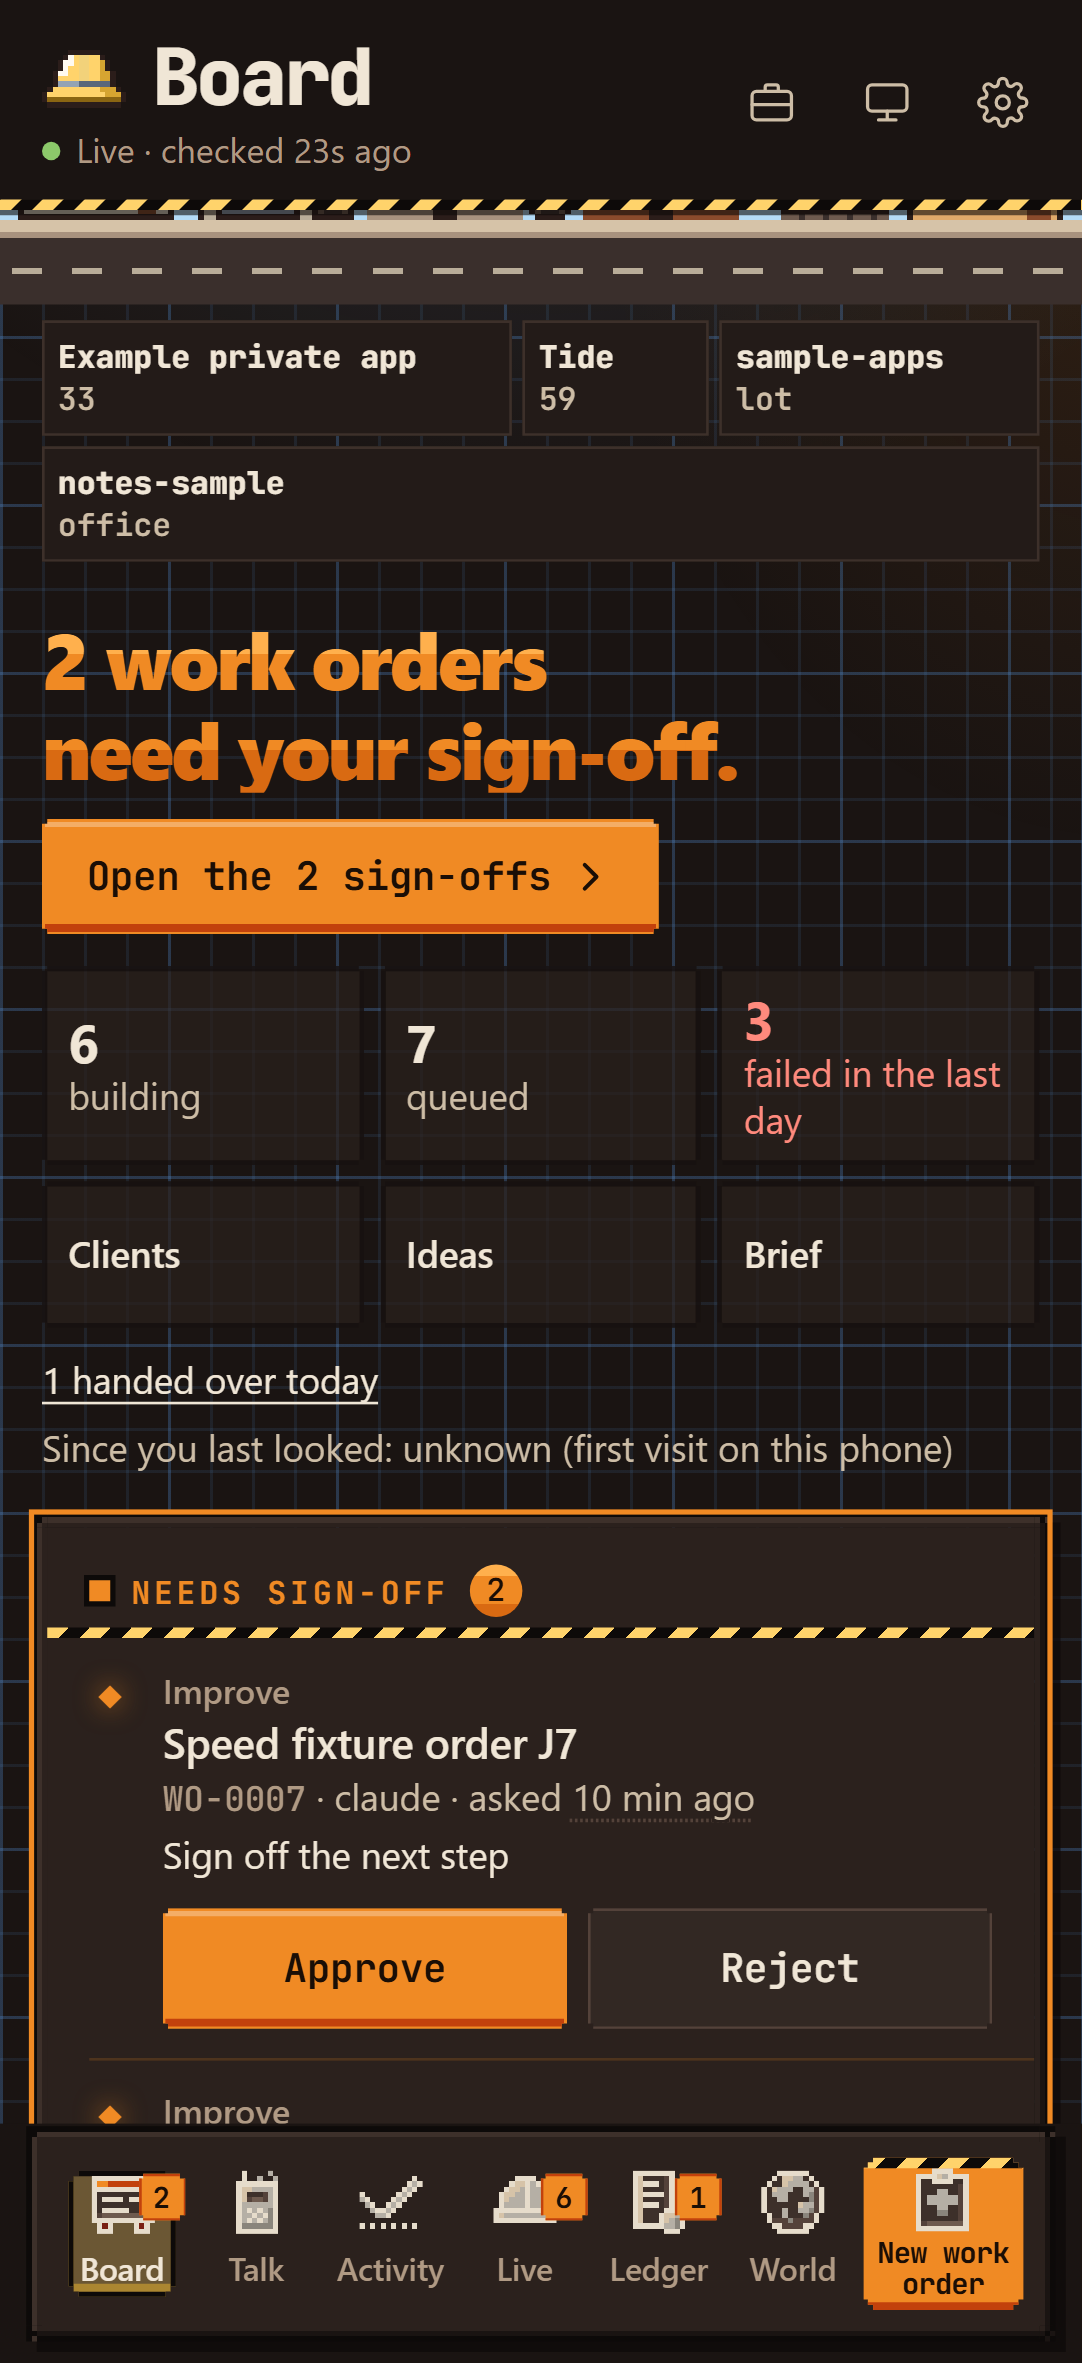
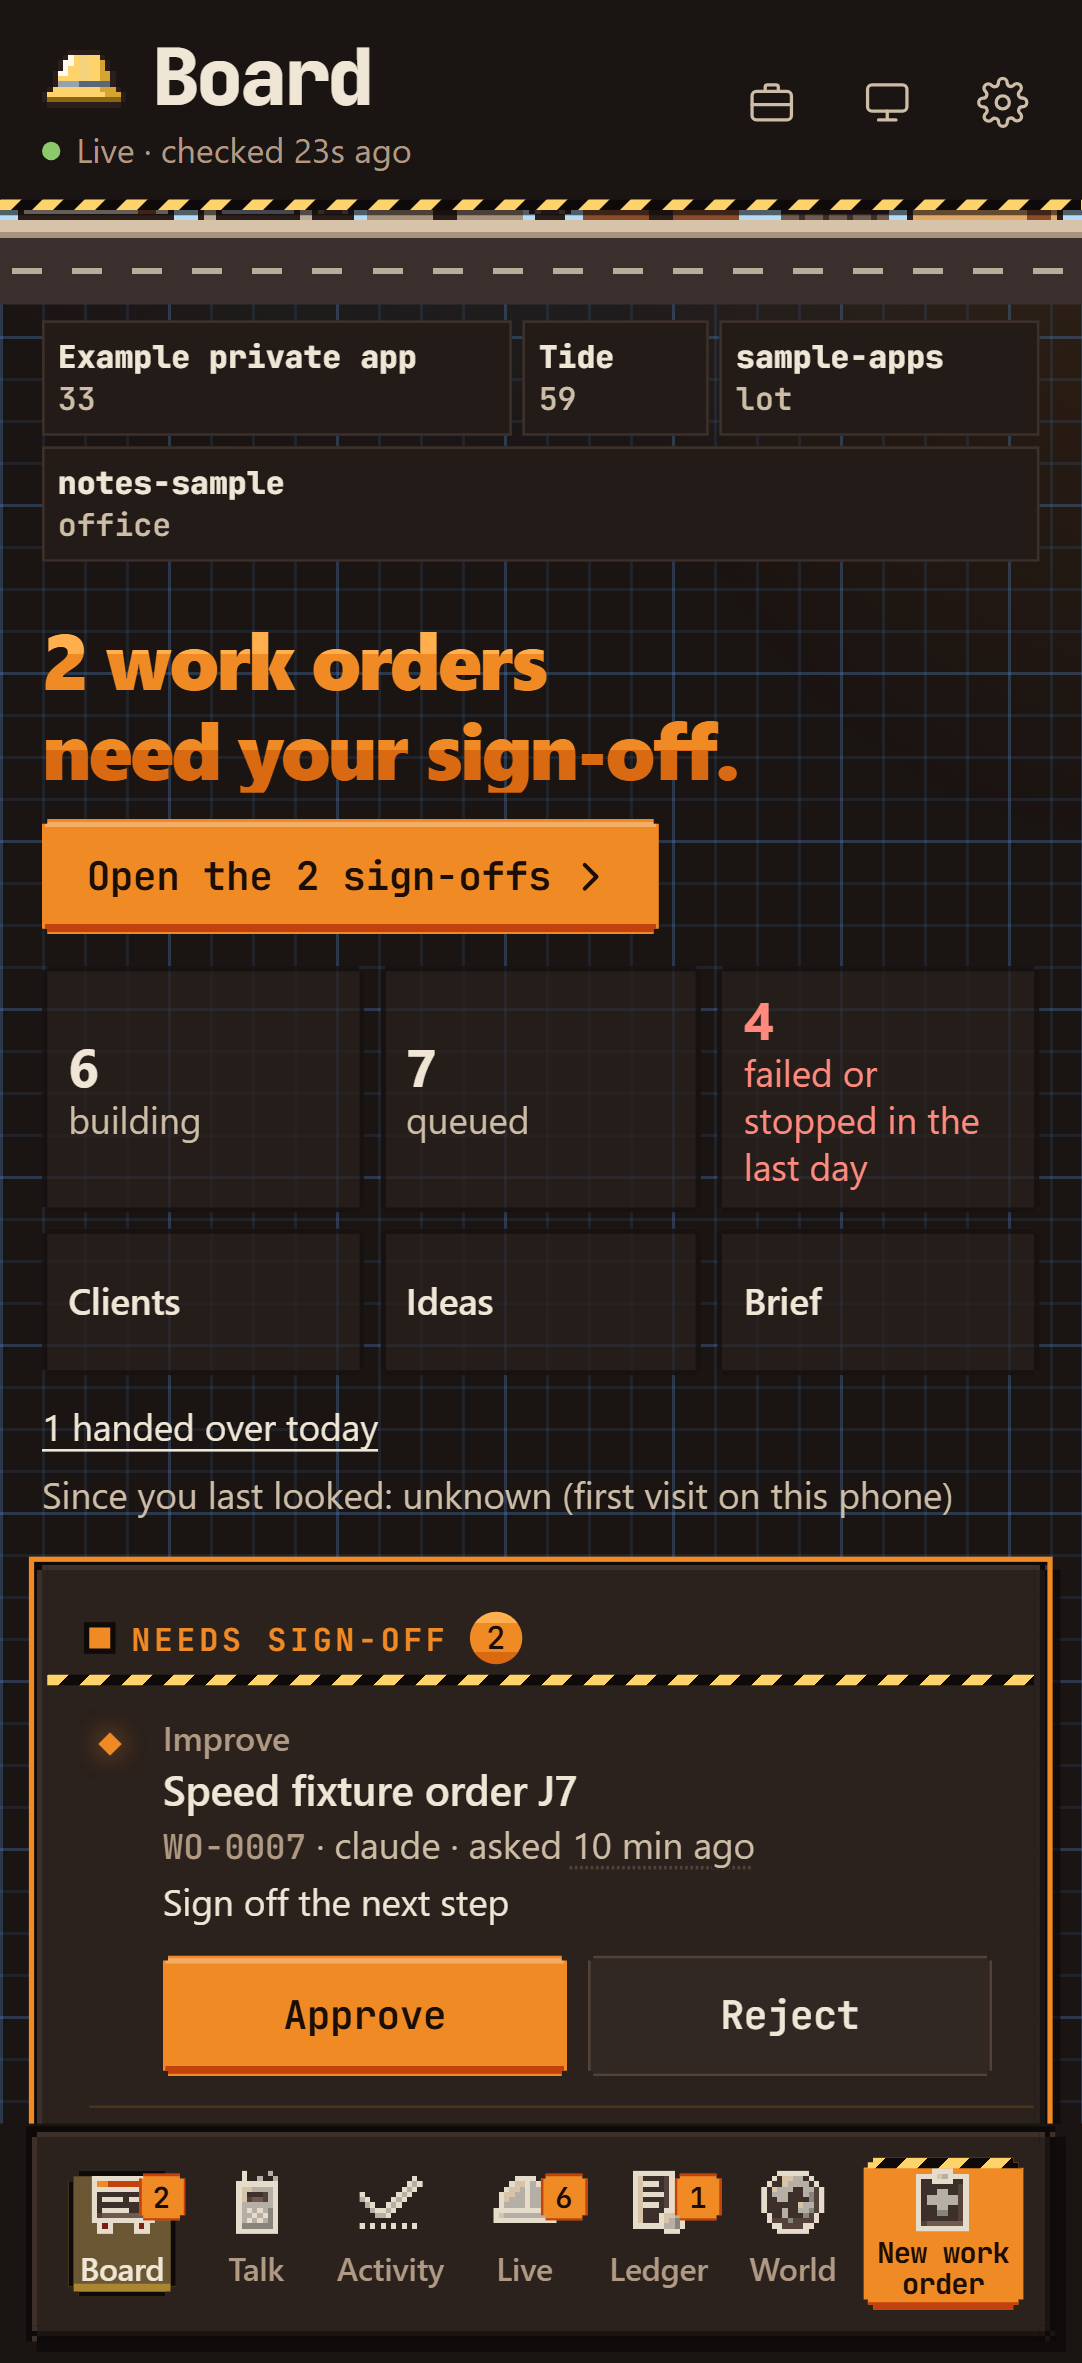
Review fixes: Retry label room, failed-or-stopped wording, notice sheet gutter
Action-bar buttons with a why line get vertical room (nothing clipped by the bottom shadow); the home red number says 'failed or stopped in the last day' and its test covers a killed order; the notice sheet body uses the 16 px gutter; checks added in test-readable.mjs. PassApp 1371/0, Standards 20/0, Work 118/0.

diff --git a/pass-app/public/app.css b/pass-app/public/app.css
@@ -210,6 +210,9 @@ dialog::backdrop{background:rgba(17,17,16,.45)}
 .action-bar{flex:none;display:flex;gap:8px;padding:12px var(--gutter) calc(12px + var(--bottom));border-top:1px solid var(--line);background:var(--bg)}
 .action-bar:empty{display:none}
 .action-bar .btn{flex:1;min-height:52px}
+/* task 30 (D-3 nothing clipped): a button that carries its reason (.btn-why, app.js retryLabel) is taller than 52 px; give its lines room
+   above the 3 px bottom edge of a pixel-look primary button, so the last line's descenders are never under it */
+.action-bar .btn:has(.btn-why){flex-direction:column;gap:2px;height:auto;padding:8px 12px 11px}
 
 /* job detail */
 .ticket{padding:4px var(--gutter) 16px}
@@ -1367,6 +1370,9 @@ html.lobe-px .lobe-box{border:12px solid transparent;border-image:var(--lobe-dlg
 html.px .notice-chip{clip-path:var(--px-notch-s)}
 .notice-text{margin:4px 0 12px;font-size:16px;line-height:24px;color:var(--ink);overflow-wrap:anywhere}
 .notice-act{display:flex;flex-wrap:wrap;gap:8px}.notice-act .btn{min-height:44px;text-decoration:none;display:inline-flex;align-items:center}
+/* task 30 (D-3): the notice sheets' words and buttons sit on the same 16 px gutter as every other sheet; their .note already lives inside it */
+#notice-body,#notices-body{padding-left:var(--gutter);padding-right:var(--gutter)}
+#notice-body .note,#notices-body .empty-line{padding-left:0;padding-right:0}
 /* the City gets the space back: edge to edge (city.js scales the picture to the box), its words keep the gutter, every name whole
    (names wrap to a second row or line, never an ellipsis); D-3: Look A (crisp pixels as drawn) by day, lit at dusk and night (B's lighting) */
 .city{margin:2px 0 10px}

diff --git a/pass-app/public/app.js b/pass-app/public/app.js
@@ -359,7 +359,7 @@ function renderPass() {
   const sign = needs.length ? `<button class="btn primary signoff-btn" type="button" data-signoff="${needs.length === 1 ? esc(needs[0].id) : ''}">${needs.length === 1 ? 'Open the sign-off' : `Open the ${needs.length} sign-offs`}${icon('chev')}</button>` : '';
   const stat = (num, words, attrs, bad = false) => `<a href="#/pass" class="stat${bad ? ' bad' : ''}" ${attrs}><b>${num}</b> <span>${words}</span></a>`;
   const stats = [stat(cooking.length, low(L.running), 'data-jump="cooking"'), stat(rail.length, low(L.pending), 'data-jump="rail"'),
-    stat(hs.recent.length, `${low(L.failed)} in the last day`, 'data-jump="aside"', hs.recent.length > 0),
+    stat(hs.recent.length, `${asideWord} in the last day`, 'data-jump="aside"', hs.recent.length > 0),
     s.leads ? stat(Number(s.leads), s.leads > 1 ? 'leads' : 'lead', 'data-clients-open') : stat('', 'Clients', 'data-clients-open'),
     s.ideas ? stat(Number(s.ideas), s.ideas > 1 ? 'ideas' : 'idea', 'data-ideas-open') : stat('', 'Ideas', 'data-ideas-open'), stat('', 'Brief', 'data-brief-open')];
   const platedToday = plated.filter((j) => isToday(j.updated)).length;

diff --git a/pass-app/README.md b/pass-app/README.md
@@ -5,7 +5,7 @@ Names: `gemini-brain/projects/tide/naming/GLOSSARY.md`. Screen names, status wor
 
 | Where | What it does |
 |---|---|
-| Board | One list: Needs sign-off (approve / reject with the exact ask), Building (live clock; Inspection while the tests or check step runs), Queued, the bench (Failed or Stopped; retry), Handed over. Every row shows a human title from one helper (`public/titles.js` `titleOf`, D-11): the idea's short title, else the name's first heading or line in plain words, markdown stripped; an id alone reads as words by its Spec ("diagnose: J357" is "Why WO-0357 failed"), never a bare id. The page's bottom room is measured from the nav itself (`--nav-cover`), so the last row is never under it; a floor (`.bar-floor`) fills the screen's bottom edge from the nav's top down and the header is opaque, so nothing shows through beside, below or above them. **Home (task 30, D-11):** the headline has its one action under it (Open the sign-off: one order opens its sheet, more jump to Needs sign-off); then one grid of six equal cells (building, queued, failed in the last day, leads or Clients, ideas, Brief); then the plain-words line on its own line (handed over today, follow-ups due). The red number counts only orders failed or stopped in the last day (`public/plain.js` `homeStats`); older ones sit under Show cleared / older in the same section, one tap away. Times read in words (3 min ago, 2 h ago) and a tap shows the exact time. Long titles, asks and meta lines wrap, never cut with an ellipsis. Details (a failure reason, an alert, a step's note) read in plain words (`titles.js` `plainDetail`: file paths read as the file's name, JSON left out); the full text is one tap away (The full detail, History, Logs). Every tab and sheet is crawled by `test-readable.mjs`. Tap any work order (code: ticket) for its Steps, the Dispatcher's (code: `sous-chef.ps1`) reasons, costs, logs and history. |
+| Board | One list: Needs sign-off (approve / reject with the exact ask), Building (live clock; Inspection while the tests or check step runs), Queued, the bench (Failed or Stopped; retry), Handed over. Every row shows a human title from one helper (`public/titles.js` `titleOf`, D-11): the idea's short title, else the name's first heading or line in plain words, markdown stripped; an id alone reads as words by its Spec ("diagnose: J357" is "Why WO-0357 failed"), never a bare id. The page's bottom room is measured from the nav itself (`--nav-cover`), so the last row is never under it; a floor (`.bar-floor`) fills the screen's bottom edge from the nav's top down and the header is opaque, so nothing shows through beside, below or above them. **Home (task 30, D-11):** the headline has its one action under it (Open the sign-off: one order opens its sheet, more jump to Needs sign-off); then one grid of six equal cells (building, queued, failed or stopped in the last day, leads or Clients, ideas, Brief); then the plain-words line on its own line (handed over today, follow-ups due). The red number counts only orders failed or stopped in the last day (`public/plain.js` `homeStats`); older ones sit under Show cleared / older in the same section, one tap away. Times read in words (3 min ago, 2 h ago) and a tap shows the exact time. Long titles, asks and meta lines wrap, never cut with an ellipsis. Details (a failure reason, an alert, a step's note) read in plain words (`titles.js` `plainDetail`: file paths read as the file's name, JSON left out); the full text is one tap away (The full detail, History, Logs). Every tab and sheet is crawled by `test-readable.mjs`. Tap any work order (code: ticket) for its Steps, the Dispatcher's (code: `sous-chef.ps1`) reasons, costs, logs and history. |
 | City (top of the Board) | Every project on this PC as a pixel building (`public/city.js`, drawn from `/api/towers` and the live state): a Tower per repo with merged PRs, one floor each on one shared height scale; cranes for open PRs (their CI tag), crews in their colours, pallets for queued work, a beacon for a sign-off, scaffolding for a red main, the gate (PAUSED or OPEN), the budget meter, the Office and the Yard lot. The sky is the real hour. Tap (i) for "What am I looking at?" (only the marks on screen). **Zoom by levels** (`public/city-nav.js`): tap a building (or its name) for `#/city/<key>`, swipe sideways for the next one, pinch out on a building or in to go back; Back, Esc and the breadcrumb (City › Tide) zoom out one level. The camera moves 280 ms in, 220 ms out; under reduced motion it cuts. **A building's own level** draws that tower alone and large (its newest 22 floors whole, older ones banded) over its **cutaway**: open PRs on top, then one row per floor, newest first, the "public from" line above the old history, windowed like the board (20 rows, then 50 more a tap). Each row reads as words (task 30): the whole title (wrapped), then what it was and when (`open, checks passed`, `draft, checks failed`, `merged Oct 23`, `taken down Oct 24`), then the PR number as small secondary text; a floor whose work order is private reads `Private work order`. The picture is cut to the tower and its crew (no tall empty sky) and is at most 40% of the screen tall. Tap a row for the **floor sheet** (`#/city/<key>/f/<pr>`, `/old` under the line): when it merged and by whom, its Pour, its work order, and a GitHub link for the public repo's floors. Under reduced motion it is one still picture, redrawn each minute. Every other tab shows a 40 px **horizon strip** under the header: quiet unless something needs you; tap it for the Board. On the Board it runs edge to edge (the picture takes the next whole-number scale) and every name is whole: names wrap to a second row or line, never .... By day the pixels are as drawn; at dusk and night the picture is lit (more contrast and colour, so lit windows, beacons and signs stand out). |
 | Status line | Under the header (`app.js` `renderNotices`, decision D-1): every notice is a small chip, a shape and 2-4 words (Auto-merge paused, Site closed, Supervisor quiet, AI crews off ...); tap one for a sheet with its full text and its action (Run now, Resume, Turn on). Only a broken thing keeps a full-width red bar: the Yard unreachable, the Walkround stopped (10 min without a pass), a red main, an undo not pushed, a Stop-work order, a registry that cannot be read. A limit that holds work (a quiet Walkround, a Site over its CI budget) is an amber-edged chip. Any new alarm banner is a red bar unless marked otherwise. No notices: no line. **One row, clearable** (D-12, `public/notices.js`): the line never wraps (chips scroll sideways inside it, at most 32 px); clear a chip with Clear in its sheet, a swipe up, or Clear all at the end of the line. A cleared notice stays hidden until it changes (kept per phone under its id and a hash of its words and state; a ticking clock is not a change; works without storage for the visit). All cleared: the line is gone and a bell with a count in the header opens every current notice with its actions and Restore. A red bar is never hidden: its ^ makes it one thin line (at most 28 px, tap for the full text) until it changes; a new breakage is full size. Clearing animates the height, so the City moves up smoothly. |
 | Talk | Chat with the Yard. Each message goes through the Dispatcher: personal things go to the Home crew (code: the `local` cook) and the whole chat stays on this PC from then on (or tap the lock first); the rest goes to Claude or Google on your plans, moved by plan use. "AI crews" off = the Home crew still talks. The chat remembers what was said (the last ~10,000 characters go with each message). The crew has no tools and can only suggest a work order from the Specs (code: `recipes/`), shown as a card: nothing runs until you tap the card's "Place work order" button. Chats live in `<kitchen>\talk`; the audit trail notes each message, never its words. Engine: `kitchen/talk.ps1`. |

diff --git a/docs/changes/task-30.md b/docs/changes/task-30.md
@@ -26,7 +26,7 @@ Every tab and sheet was opened at 412 x 900, dark and light, against a throwaway
 | New work order (light) | The Spec glyphs are under AA. | `order-sheet-412-light-before.png` |
 | Talk at 360 x 740 | The message box sits 14 px under the nav. | (crawl) |
 
-Talk, Settings and the notice sheet had no finding at 412 px.
+Talk and Settings had no finding at 412 px. The review (round 1) found two more: the notice sheet's words and Clear button sat 6 px from the screen edge, and the Retry button's reason line ran under its 3 px bottom edge.
 
 ## What changed
 
@@ -42,7 +42,7 @@ Talk, Settings and the notice sheet had no finding at 412 px.
   - The full text is one tap away: The full detail (on the sheet), History and Logs.
 - **The home** (Jordan's phone, 10-27, items 1-3):
   - The headline has its one action under it, Open the sign-off. One order opens its sheet; more jump to Needs sign-off.
-  - Under it sits one grid of six equal cells: building, queued, failed in the last day, leads or Clients, ideas, Brief.
+  - Under it sits one grid of six equal cells: building, queued, failed or stopped in the last day, leads or Clients, ideas, Brief.
   - The plain-words line ("1 handed over today", follow-ups due) sits on its own line under the grid.
   - The red number counts only orders that failed or stopped in the last day (`public/plain.js` `homeStats`). The older ones are under Show cleared / older in the same section, one tap away, with Clear old.
 - **The tower view** (items 4, 5 and 7):
@@ -60,15 +60,17 @@ Talk, Settings and the notice sheet had no finding at 412 px.
   - Row times read "10 min ago" and "2 h ago"; a tap shows the exact time.
   - Titles, asks and meta lines wrap; nothing cuts the meaning with an ellipsis.
   - Body text is at least 14 px, and small labels (ids, times, counts, headings) at least 12 px.
+- **Nothing clipped, one gutter** (round 1): a button that carries its reason (Retry) gets padding above its bottom edge, and the notice sheets sit on the same 16 px gutter as the other sheets.
 - **Contrast AA in both looks:** cook badges and the Live tags use dark letters, the idle desks are no longer faded, and the red counts, lobe badges and light Spec glyphs are darker. Palette colours only.
 
 ## Tests
 
-`pass-app/test-readable.mjs` (new; run by `tests/Test-PassApp.ps1`) has 25 checks, one named after each acceptance line and each of Jordan's seven items:
+`pass-app/test-readable.mjs` (new; run by `tests/Test-PassApp.ps1`) has 27 checks, one named after each acceptance line and each of Jordan's seven items:
 
 - The crawl: `Crawl412_NoBareId`, `Crawl412_NoMarkdown`, `Crawl412_NoPathNoJson`, and the same three at 360 x 740. They cover every tab (Board, a tower, a floors list, Talk, Activity, Live, Ledger, World, Work) and the sheets (work order, Settings, New work order, notice).
 - `ContrastAA_BothLooks`: every visible text element, dark and light.
 - `NoHScroll360`, `LastItem_AboveNav360` and `BodyText14`.
+- `Buttons_NothingClipped` (every button's last text line ends above its bottom edge minus 3 px) and `SheetGutter360` (text in a sheet's body starts at least 12 px from the screen edge).
 - The seven items: `Home_StatsOneGrid`, `Home_FailedMeansNow`, `Home_OlderOneTap`, `Home_SignOffAction`, `Tower_TitlesWrap_PlainStatus`, `Tower_LastRowAboveNav412x900`, `Tower_LastRowAboveNav360x740`, `Floors_TitleWhatWhen`, `Floors_RealNamesOnOwnBoard` and `Tower_SceneFitsContent`.
 - Also `Times_WordsExactOnTap`, `PlainWords_Status` and `HomeStats_RecentOnly`.
 - Speed: `SpeedBudget_NotWorse` (no canvas, animation or loop added) and `SpeedBudget_Cutaway` (2,000 floors build their 70 shown rows in under 5 ms).
